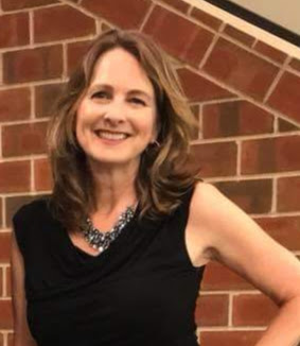
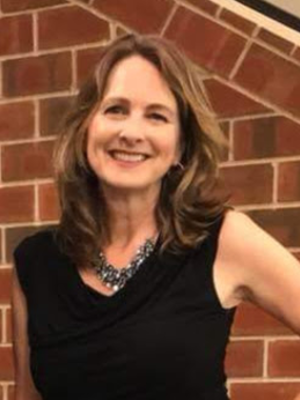
fixed images to percentages

diff --git a/about.html b/about.html
@@ -59,11 +59,11 @@
 											<u>Who We Are</u>
 										</h4>
 										<div style="width: 100%; display: inline-block;">
-											<div id="about-photo"><img src="images/ck-jill-300.png" height="150px;" alt="jill@codekitty"><br /><i>Jill</i></div>
-											<div id="about-photo"><img src="images/ck-jason-300.png" height="150px;" alt="jason@codekitty"><br /><i>Jason</i></div>
-											<div id="about-photo"><img src="images/ck-carol-300.png" height="150px;" alt="carol@codekitty"><br /><i>Carol</i></div>
-											<div id="about-photo"><img src="images/ck-sean-300.png" height="150px;" alt="sean@codekitty"><br /><i>Sean</i></div>
-											<div id="about-photo"><img src="images/ck-dylan-300.png" height="150px;" alt="dylan@codekitty"><br /><i>Dylan</i></div>
+											<div id="about-photo"><img src="images/ck-jill-300.png" width="90%" alt="jill@codekitty"><br /><i>Jill</i></div>
+											<div id="about-photo"><img src="images/ck-jason-300.png" width="90%" alt="jason@codekitty"><br /><i>Jason</i></div>
+											<div id="about-photo"><img src="images/ck-carol-300.png" width="90%" alt="carol@codekitty"><br /><i>Carol</i></div>
+											<div id="about-photo"><img src="images/ck-sean-300.png" width="90%" alt="sean@codekitty"><br /><i>Sean</i></div>
+											<div id="about-photo"><img src="images/ck-dylan-300.png" width="90%" alt="dylan@codekitty"><br /><i>Dylan</i></div>
 										</div>
 										<p>
 											Code Kitty is a 501(c)(3) tax-exempt Twin Cities, MN, USA-based non-profit made up of
